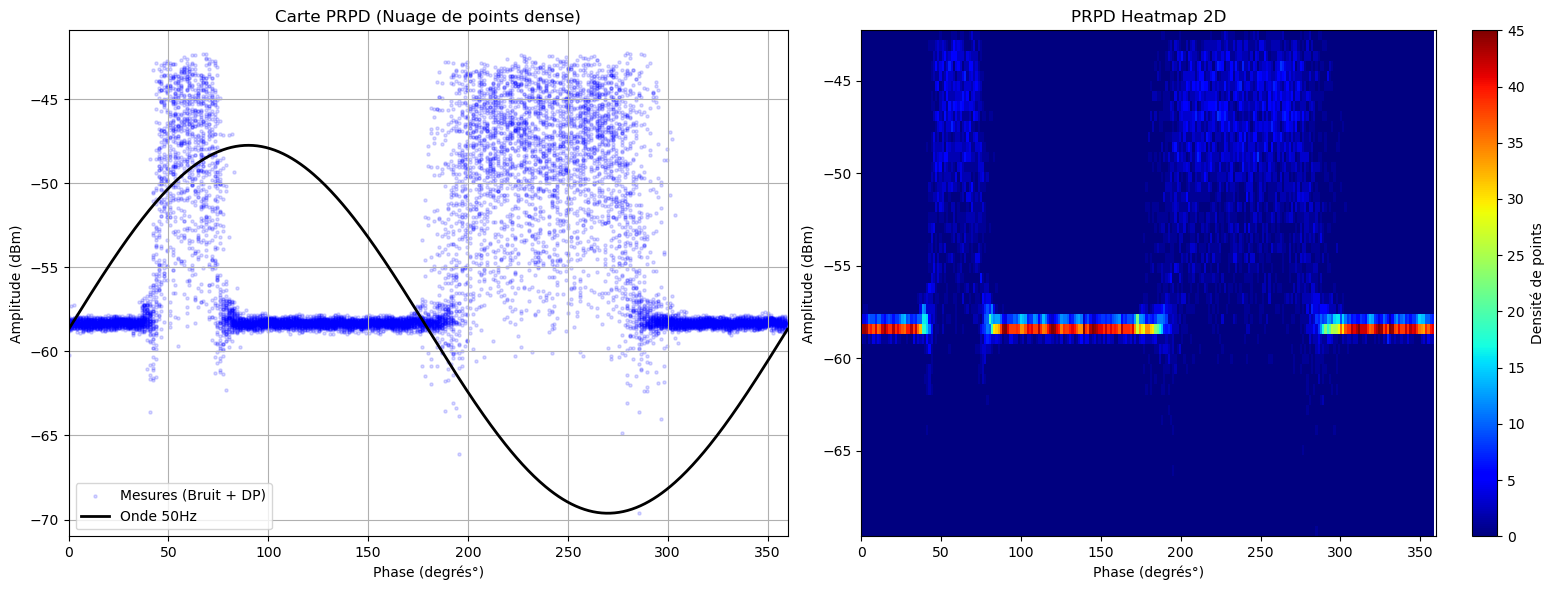
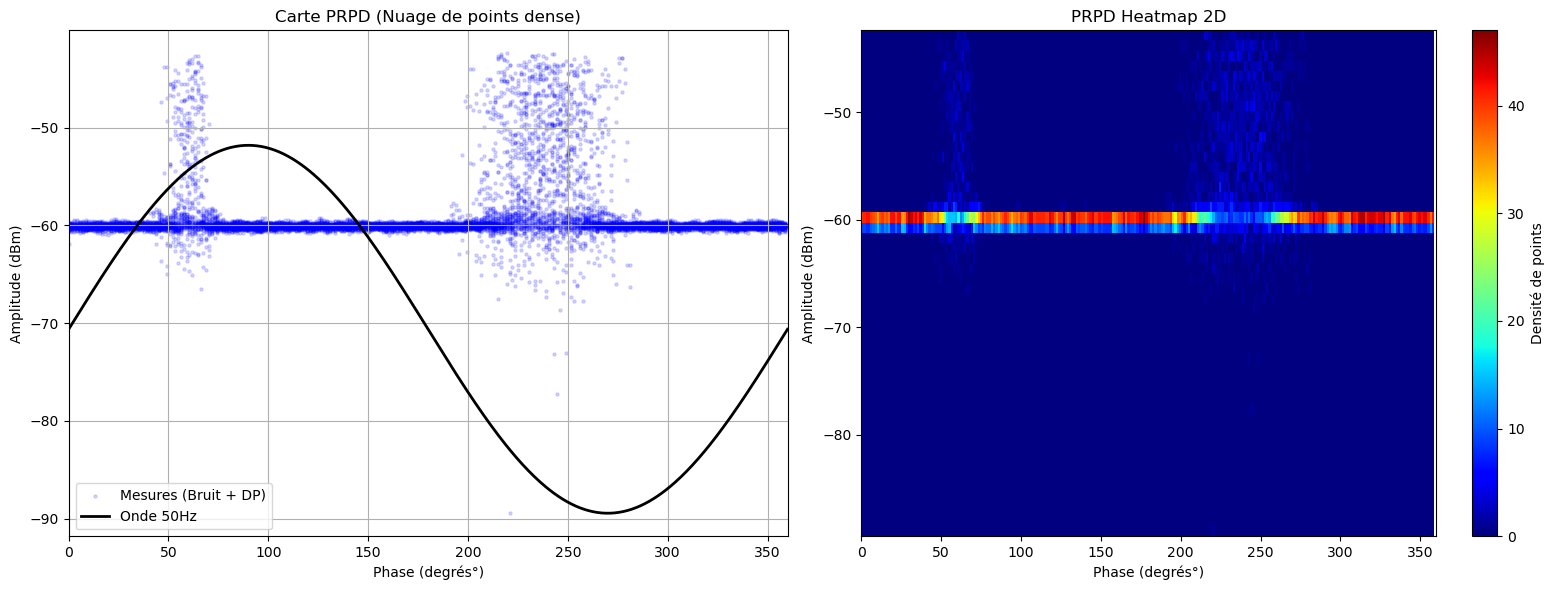
Juste before TX/RX

diff --git a/main.py b/main.py
@@ -112,7 +112,8 @@ def Simulate_PD_Signal(num_samps, rate, f_offset=10e6):
     
     f_ref = 50.0
     phase_ref = (360.0 * f_ref * t) % 360.0
-    
+
+    # La distribution des DP
     prob_pd = (
         0.8 * gaussian_phase(phase_ref, 60, 5) +
         1.0 * gaussian_phase(phase_ref, 240, 15)
@@ -121,10 +122,13 @@ def Simulate_PD_Signal(num_samps, rate, f_offset=10e6):
     
 
     rng = np.random.default_rng(42)
-    p_global = 0.01 * prob_pd
+    # On prend 1% * there probs des samples comme des candidats
+    p_global = 0.0001 * prob_pd
     candidats = np.where(rng.random(num_samps) < p_global)[0]
-    
-    min_gap_samples = int(0.0002 * rate)
+
+
+    # La diff entre les candidats sur les quelle on va appliquer les Pulses de DP
+    min_gap_samples = int(200e-6 * rate)
     
     event_indices = []
     last_idx = -min_gap_samples
@@ -164,7 +168,7 @@ def Process_PD_Signal(samples, rate, f_offset=10e6):
     
     print(" -> Filtrage IF (Bande étroite UHF100 : 3 MHz)...")
  
-    sos_if = butter(4, 1.5e6 / (rate / 2), btype='low', output='sos')
+    sos_if = butter(4, 1e6 / (rate / 2), btype='low', output='sos')
     samples_if = sosfiltfilt(sos_if, samples_dc)
     
     print(" -> Extraction de l'enveloppe brute...")
@@ -286,10 +290,10 @@ def main():
     
 
     # # Plot signal Brute
-    freqs, psd_db = Freq_domain_gr_blocks(samples, RATE, FREQ, NFFT, f_plot_low=None, f_plot_high=None, name = "")
-    _, _ = Freq_domain_gr_blocks(pd_simulated, RATE, FREQ, NFFT, f_plot_low=None, f_plot_high=None, name = "")
-    _, _ = Freq_domain_gr_blocks(samples_with_pd, RATE, FREQ, NFFT, f_plot_low=None, f_plot_high=None, name = "")
-    Time_domain_gr(pd_simulated, RATE)
+    # freqs, psd_db = Freq_domain_gr_blocks(samples, RATE, FREQ, NFFT, f_plot_low=None, f_plot_high=None, name = "")
+    # _, _ = Freq_domain_gr_blocks(pd_simulated, RATE, FREQ, NFFT, f_plot_low=None, f_plot_high=None, name = "")
+    # _, _ = Freq_domain_gr_blocks(samples_with_pd, RATE, FREQ, NFFT, f_plot_low=None, f_plot_high=None, name = "")
+    # Time_domain_gr(pd_simulated, RATE)
     
     # # Band pass in time
     # filtred_signal = Bandpass_filter_inTimeDomain(samples, f_low, f_hight, RATE)
